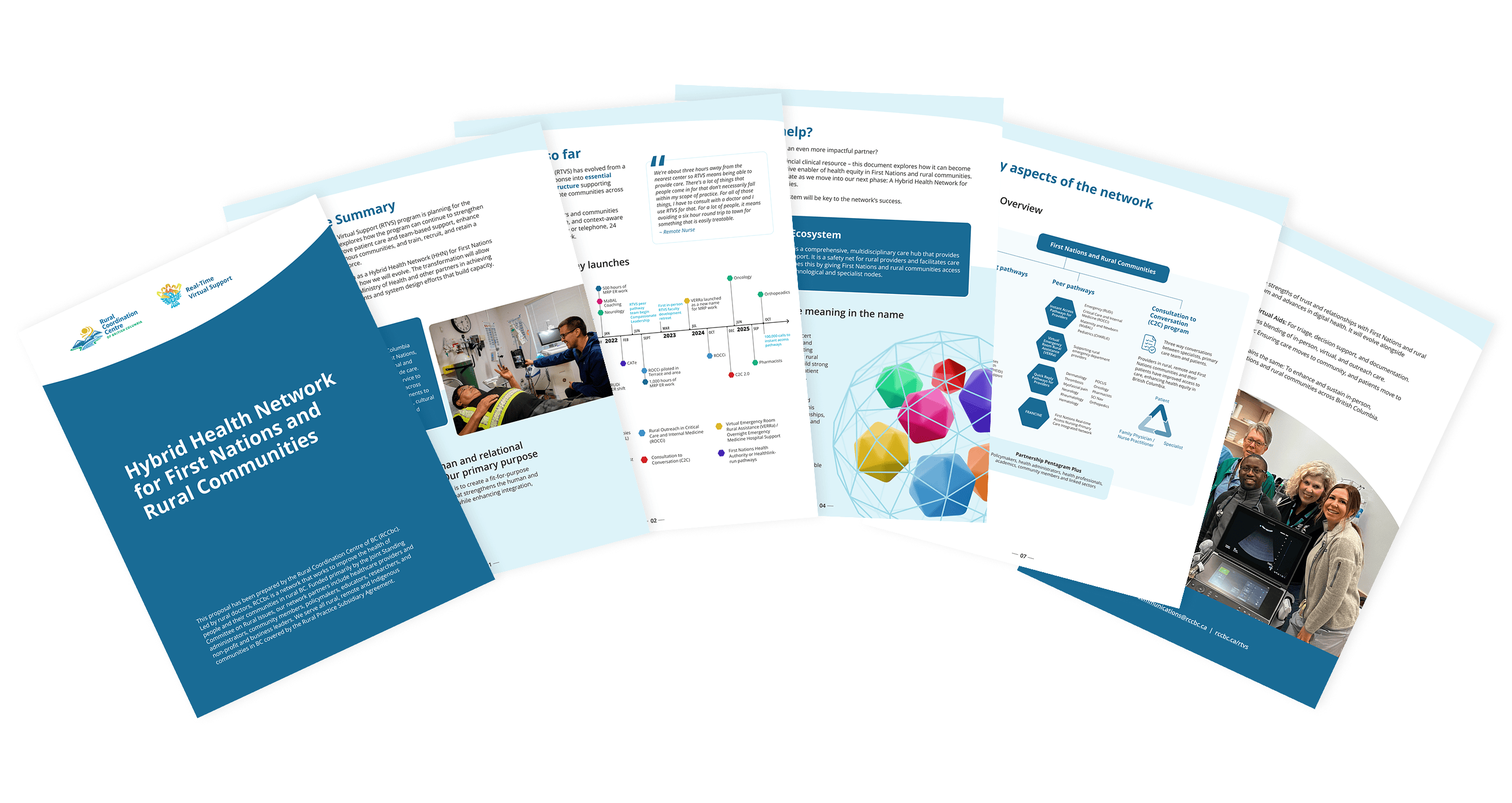
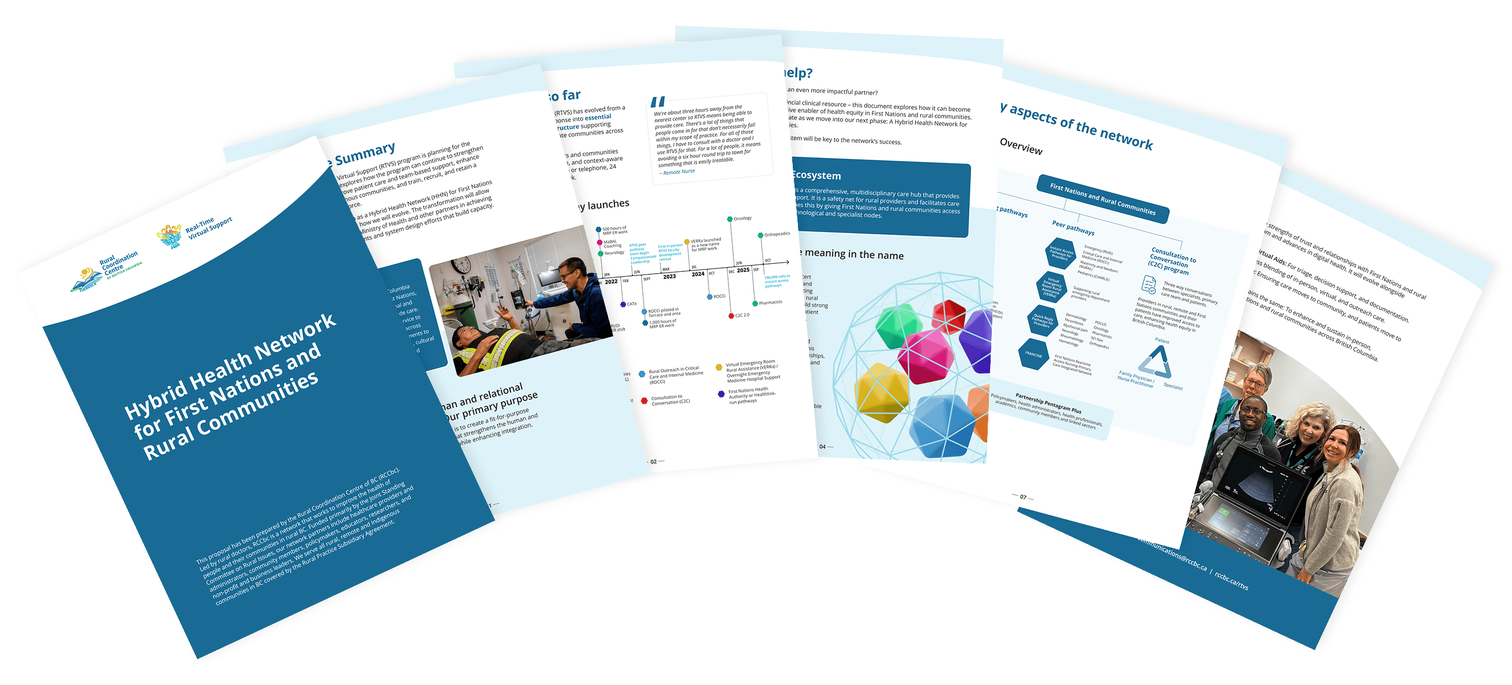
Swapped in RCCbc to select work for SPF

Changed region(s): [[0.031, 0.0312, 0.992, 0.9688]]

diff --git a/index.html b/index.html
@@ -145,7 +145,7 @@
         <div class="about-title-column">
           <h2 class="about-name about-title">About me</h2>
           <div class="about-contact">
-            <h3 class="pg-section-heading"><img src="/assets/figma-case-studies/section-rule.svg" alt="" aria-hidden="true">Connect</h3>
+            <h3 class="pg-section-heading"><img src="/assets/case-studies/section-rule.svg" alt="" aria-hidden="true">Connect</h3>
             <ul>
               <li><a class="js-email" data-u="steve" data-d="smackey.ca">steve&#64;smackey&#46;ca</a></li>
               <li><a href="https://www.linkedin.com/in/smackey" target="_blank" rel="noopener">LinkedIn</a></li>
@@ -155,32 +155,32 @@
         <div class="about-story-scroll" aria-label="About Steve">
           <section class="about-story-section">
             <div class="about-story-copy">
-              <h3 class="pg-section-heading"><img src="/assets/figma-case-studies/section-rule.svg" alt="" aria-hidden="true">A foundation in creative technology</h3>
+              <h3 class="pg-section-heading"><img src="/assets/case-studies/section-rule.svg" alt="" aria-hidden="true">A foundation in creative technology</h3>
               <p>I began my career as a hybrid designer and developer, specializing in interactive storytelling at CBC Radio 3, NFB Interactive, and several independent digital agencies. Working across creative and technical disciplines shaped my approach to problem-solving and laid the groundwork for the multidisciplinary leadership roles that followed.</p>
             </div>
           </section>
           <section class="about-story-section">
             <div class="about-story-copy">
-              <h3 class="pg-section-heading"><img src="/assets/figma-case-studies/section-rule.svg" alt="" aria-hidden="true">Building and leading a digital agency</h3>
+              <h3 class="pg-section-heading"><img src="/assets/case-studies/section-rule.svg" alt="" aria-hidden="true">Building and leading a digital agency</h3>
               <p>As co-owner and Director of Design &amp; Technology at <a href="https://denman.digital" target="_blank" rel="noopener noreferrer">Denman&nbsp;Digital</a>, I spent a decade helping build and lead an award-winning agency acquired in 2026. I led digital strategy, experience design, and technical direction, setting the creative standard for work delivered to more than 50 mission-focused organizations across nonprofit, education, healthcare, media, cultural, and public sectors.</p>
             </div>
           </section>
           <section class="about-story-section">
             <div class="about-story-copy">
-              <h3 class="pg-section-heading"><img src="/assets/figma-case-studies/section-rule.svg" alt="" aria-hidden="true">Simplifying complex challenges</h3>
+              <h3 class="pg-section-heading"><img src="/assets/case-studies/section-rule.svg" alt="" aria-hidden="true">Simplifying complex challenges</h3>
               <p>I work closely with clients and stakeholders to understand their goals, drawing on research and data to identify opportunities, inform design decisions, and measure success. From discovery and experience strategy to design systems and technical delivery, I connect big-picture thinking with practical execution.</p>
             </div>
           </section>
           <section class="about-story-section">
             <div class="about-story-copy">
-              <h3 class="pg-section-heading"><img src="/assets/figma-case-studies/section-rule.svg" alt="" aria-hidden="true">Creating the conditions for excellence</h3>
+              <h3 class="pg-section-heading"><img src="/assets/case-studies/section-rule.svg" alt="" aria-hidden="true">Creating the conditions for excellence</h3>
               <p>I believe great work happens when talented people share a clear sense of purpose and direction. I bring cross-functional teams together around a common vision, fostering a collaborative culture where people feel supported, take ownership, and contribute their strengths. Through mentorship, clear direction, and constructive feedback, I help teams grow and deliver their best work.</p>
             </div>
           </section>
           <section class="about-story-section">
             <div class="about-story-copy">
-              <h3 class="pg-section-heading"><img src="/assets/figma-case-studies/section-rule.svg" alt="" aria-hidden="true">Purpose beyond the work</h3>
-              <p>I'm most driven by helping mission-led organizations grow and thrive. I enjoy tackling complex challenges and finding ways to advance their goals, inspire their audiences, and better serve their communities. When those organizations succeed, everyone benefits.</p>
+              <h3 class="pg-section-heading"><img src="/assets/case-studies/section-rule.svg" alt="" aria-hidden="true">Purpose beyond the work</h3>
+              <p>I’m most driven by helping mission-led organizations grow and thrive. I enjoy tackling complex challenges and finding ways to advance their goals, inspire their audiences, and better serve their communities. When those organizations succeed, everyone benefits. Away from the screen, you'll find me on the trails, beaches and mountains of the beautiful Comox Valley on Vancouver Island.</p>
             </div>
           </section>
         </div>
@@ -189,7 +189,7 @@
         <h2 class="about-heading" id="about-clients-heading">Select Clients</h2>
 
           <section class="client-group" aria-labelledby="client-group-mission">
-            <h3 class="pg-section-heading client-group-title" id="client-group-mission"><img src="/assets/figma-case-studies/section-rule.svg" alt="" aria-hidden="true">Nonprofit, Mission-Driven &amp; Public Sector</h3>
+            <h3 class="pg-section-heading client-group-title" id="client-group-mission"><img src="/assets/case-studies/section-rule.svg" alt="" aria-hidden="true">Nonprofit, Mission-Driven &amp; Public Sector</h3>
             <div class="clients-grid clients-grid--five">
               <div class="client-logo"><img src="/assets/clients/bc.png" alt="Province of British Columbia"></div>
               <div class="client-logo"><img src="/assets/clients/bch.png" alt="BC Hydro"></div>
@@ -205,7 +205,7 @@
           </section>
 
           <section class="client-group" aria-labelledby="client-group-cultural">
-            <h3 class="pg-section-heading client-group-title" id="client-group-cultural"><img src="/assets/figma-case-studies/section-rule.svg" alt="" aria-hidden="true">Culture, Education &amp; Healthcare</h3>
+            <h3 class="pg-section-heading client-group-title" id="client-group-cultural"><img src="/assets/case-studies/section-rule.svg" alt="" aria-hidden="true">Culture, Education &amp; Healthcare</h3>
             <div class="clients-grid clients-grid--five">
               <div class="client-logo"><img src="/assets/clients/parks-canada.png" alt="Parks Canada"></div>
               <div class="client-logo"><img src="/assets/clients/dmc.png" alt="Digital Museums Canada"></div>
@@ -221,7 +221,7 @@
           </section>
 
           <section class="client-group" aria-labelledby="client-group-media">
-            <h3 class="pg-section-heading client-group-title" id="client-group-media"><img src="/assets/figma-case-studies/section-rule.svg" alt="" aria-hidden="true">Media</h3>
+            <h3 class="pg-section-heading client-group-title" id="client-group-media"><img src="/assets/case-studies/section-rule.svg" alt="" aria-hidden="true">Media</h3>
             <div class="clients-grid clients-grid--five">
               <div class="client-logo"><img src="/assets/clients/nfb.png" alt="National Film Board of Canada"></div>
               <div class="client-logo"><img src="/assets/clients/knowledge.png" alt="Knowledge Network"></div>
@@ -335,7 +335,7 @@
         <h1 class="intro-title"><span class="dark">Impact</span> <span class="light">by design.</span></h1>
       </div>
       <div class="case-hero-copy">
-        <h2 class="case-hero-eyebrow pg-section-heading"><img src="/assets/figma-case-studies/section-rule.svg" alt="" aria-hidden="true">25 years in digital. A decade building and leading an agency.</h2>
+        <h2 class="case-hero-eyebrow pg-section-heading"><img src="/assets/case-studies/section-rule.svg" alt="" aria-hidden="true">25 years in digital. A decade building and leading an agency.</h2>
         <p class="intro-desc intro-summary">I connect strategy, design, technology, and people to help mission-focused organizations solve complex problems and create experiences that matter.</p>
         <button id="introAboutBtn"><img src="favicon.svg" alt="About" aria-hidden="true"> — About &amp; Experience</button>
       </div>
@@ -344,7 +344,7 @@
     <div class="intro-content intro-content--archive">
       <div id="archiveChip" class="archive-chip"></div>
       <p class="intro-title"><span class="dark">Explore</span> <span class="light">the</span> <span class="dark">back</span> <span class="light">catalogue.</span></p>
-      <img class="intro-divider" src="/assets/figma-case-studies/section-rule.svg" alt="" aria-hidden="true">
+      <img class="intro-divider" src="/assets/case-studies/section-rule.svg" alt="" aria-hidden="true">
       <p class="intro-desc ta-left pl-10">Digital work is ephemeral. Technology changes, platforms disappear, campaigns end. This is a record of projects I've helped bring to life over the years, some of which no longer exist.</p>
     </div>
 

diff --git a/src/js/case-studies/rural-health-in-bc.js b/src/js/case-studies/rural-health-in-bc.js
@@ -32,6 +32,7 @@ export const blocks = [
     span: 12,
     center: true,
     variant: 'callout',
+    transparent: true,
     body: '<p>RCCbc approached us to address significant design and technical concerns they had with their website and identify areas for improvement. We joined with the organization’s communications team to understand their strategic objectives and after a full design, content, and technology audit, we created and implemented on a website refresh roadmap that aligned with their goals.</p>',
     
   },
@@ -49,6 +50,7 @@ export const blocks = [
     span: 12,
     center: true,
     variant: 'callout',
+    transparent: true,
     body: '<h2>Partnership Framework</h2><p>We helped RCCbc clarify messaging around their complex partnership framework called Partnership Pentagram Plus, that brings together six essential partner perspectives to create socially accountable health system transformation. It was adapted from an existing World Health Organization model to include First Nations and other relevant community partners. We then designed an interactive infographic to explain the partnership model and convey its key ideas step by step.</p>',
   },
 
@@ -59,14 +61,6 @@ export const blocks = [
   { type: 'image', span: 8, spanSm: 12, offset: 2, offsetSm: 0, src: 'assets/projects/rccbc/RTVS-HHN-lockup.png', alt: 'Real-Time Virtual Support / HHN Sub-brand lockup' },
 
 
-  {
-    type: 'text',
-    span: 6,
-    spanSm: 12,
-    variant: 'callout',
-    body: '<h2>RTVS Rebrand</h2><p>Real-Time Virtual Support (RTVS) peer pathways are for physicians, residents, nurse practitioners, nurses, midwives—and other health care providers—in rural, remote, and First Nations communities in BC. The refreshed identity anchors RTVS under the parent brand as it slowly evolves into the Health Hybrid Network (HHN). It keeps RCCbc’s hummingbird symbol, created by Coast Salish artist Douglas “Bear,” and extends RCCbc’s palette with nature-infused tones, giving each peer pathway its own colour.</p>',
-  },
-  
   {
     type: 'imageGallery',
     span: 6,
@@ -79,6 +73,25 @@ export const blocks = [
       { src: 'assets/projects/rccbc/p.3-2.png', alt: 'RTVS Visual Identity System Guidelines - Typography' }
     ],
   },
+
+  {
+    type: 'text',
+    span: 6,
+    spanSm: 12,
+    variant: 'callout',
+    transparent: true,
+    body: '<h2>RTVS Rebrand</h2><p>Real-Time Virtual Support (RTVS) peer pathways are for physicians, residents, nurse practitioners, nurses, midwives—and other health care providers—in rural, remote, and First Nations communities in BC. The refreshed identity anchors RTVS under the parent brand as it slowly evolves into the Health Hybrid Network (HHN). It keeps RCCbc’s hummingbird symbol, created by Coast Salish artist Douglas “Bear,” and extends RCCbc’s palette with nature-infused tones, giving each peer pathway its own colour.</p>',
+  },
+
+  {
+    type: 'text',
+    span: 6,
+    spanSm: 12,
+    variant: 'callout',
+    transparent: true,
+    body: '<h2>RTVS Peer Pathways</h2><p>The hexagon is widely seen as a symbol of balance, harmony, and structure. Its six equal sides convey stability and equilibrium, qualities that mirror how the RTVS peer pathways connect to one another. Building on this, we developed a flexible design system for the Instant Access, Quick Access, and Consultation to Conversation pathways, one that adapts to a range of formats across every touchpoint.</p>',
+  },
+  
   {
     type: 'imageGallery',
     span: 6,
@@ -94,18 +107,12 @@ export const blocks = [
       { src: 'assets/projects/rccbc/p.4-7.png', alt: 'RTVS Visual Identity System Guidelines - Peer Pathways pills' },
     ],
   },
-  {
-    type: 'text',
-    span: 6,
-    spanSm: 12,
-    variant: 'callout',
-    body: '<h2>RTVS Peer Pathways</h2><p>The hexagon is widely seen as a symbol of balance, harmony, and structure. Its six equal sides convey stability and equilibrium, qualities that mirror how the RTVS peer pathways connect to one another. Building on this, we developed a flexible design system for the Instant Access, Quick Access, and Consultation to Conversation pathways, one that adapts to a range of formats across every touchpoint.</p>',
-  },
 
   {
     type: 'text',
     span: 12,
     variant: 'callout',
+    transparent: true,
     body: '<p>A proposal for BC’s Ministry of Health helped secure new funding for 24/7 coverage for the CHARLiE and MaBAL pediatric and maternity pathways as of July 1, 2026, stabilizing round-the-clock support for rural and remote providers.</p>',
   },
   { type: 'image', span: 12, src: 'assets/projects/rccbc/RTVS-comms-package.png', alt: 'RCCbc Communications Package' },

diff --git a/src/js/case-studies/a-world-of-canadian-film.js b/src/js/case-studies/a-world-of-canadian-film.js
@@ -47,7 +47,7 @@ export const blocks = [
     spanSm: 12,
     variant: 'callout',
     heading: 'Solutions',
-    body: '<h2>User centred design.</h2><ul><li>Introduced an audience-based information architecture and mega menu navigation system, making it quick to reach any page within each section</li><li>Led overall design direction and transformation of inherited brand elements into a Figma design system of components, styles, and variables that streamlined developer handoff and kept the brand consistent across products</li><li>Rebuilt a custom outdated plugin that syncs data from Salesforce to their websites establishing a single source of truth for all film and event data</li><li>Led the design and development of a block-based content management system, giving Reel Canada’s team the flexibility to build and update pages in English and French without developer support</li></ul>',
+    body: '<h2>User centred design.</h2><ul><li>Introduced an audience-based information architecture and mega menu navigation system, making it quick to reach any page within each section.</li><li>Led overall design direction and transformation of inherited brand elements into a Figma design system of components, styles, and variables that streamlined developer handoff and kept the brand consistent across products.</li><li>Rebuilt a custom outdated plugin that syncs data from Salesforce to their websites establishing a single source of truth for all film and event data.</li><li>Led the design and development of a block-based content management system, giving Reel Canada’s team the flexibility to build and update pages in English and French without developer support.</li></ul>',
   },
 
   // Outcome callout — full width
@@ -57,7 +57,7 @@ export const blocks = [
     spanSm: 12,
     variant: 'callout',
     heading: 'Outcomes',
-    body: '<h2>A lasting partnership.</h2><p>Following a well-received 2023 launch, we became Reel Canada’s agency of record, supporting the continued evolution of their flagship website and the National Canadian Film Day event site.</p><ul><li>145% website traffic increase and 500,000+ students reached in the first year</li><li>40% increase in educator sign-ups</li><li>National media partnership with CBC</li></ul><br><p>The most notable success was <em>Reel Opportunities</em>, a digital workforce initiative that attracts young adults to careers in Canada’s film industry and accounted for two-thirds of total website traffic in the first year. It includes an interactive career-pathway tool, a career-planning quiz, and a searchable, filterable directory of film-related job profiles.</p>',
+    body: '<h2>A lasting partnership.</h2><p>Following a well-received 2023 launch, we became Reel Canada’s agency of record, supporting the continued evolution of their flagship website and the National Canadian Film Day event site.</p><ul><li>145% website traffic increase and 500,000+ students reached in the first year.</li><li>40% increase in educator sign-ups.</li><li>National media partnership with CBC.</li></ul><br><p>The most notable success was <em>Reel Opportunities</em>, a digital workforce initiative that attracts young adults to careers in Canada’s film industry and accounted for two-thirds of total website traffic in the first year. It includes an interactive career-pathway tool, a career-planning quiz, and a searchable, filterable directory of film-related job profiles.</p>',
   },
 
   { type: 'spacer', span: 12, height: 40 },

diff --git a/src/js/select-work.js b/src/js/select-work.js
@@ -3,24 +3,24 @@
 export const FEATURED_CASE_STUDIES = [
   {
     slug: 'adornment-identity',
-    image: '/assets/figma-case-studies/adornment.png',
+    image: '/assets/case-studies/adornment.png',
     description: "I led the experience design, art direction, and technical direction of an award-winning virtual museum exploring 250 years of women’s fashion. Working with historians, curators, and a multidisciplinary team, we created immersive exhibits, including a 3D digital replica of a 1900 Worth dress that reveals its intricate construction from the inside out.",
   },
   {
     slug: 'a-world-of-canadian-film',
-    image: '/assets/figma-case-studies/reel-canada.png',
+    image: '/assets/case-studies/reel-canada.png',
     description: "I led the digital strategy, experience design, and technical direction of Reel Canada's website transformation, aligning organizational goals with audience needs. We simplified complex content and systems to create a flexible, bilingual platform that contributed to a 145% increase in website traffic and a 40% increase in educator sign-ups in its first year.",
   },
   {
     slug: 'my-refugee-claim',
-    image: '/assets/figma-case-studies/refugee-claim.png',
+    image: '/assets/case-studies/refugee-claim.png',
     description: "Navigating Canada's refugee protection process is challenging, especially when essential information is scattered and difficult to understand. I directed the experience design and technical delivery of an award-winning multilingual resource, working with legal experts, settlement workers, and people with lived experience to make critical information more accessible.",
   },
 ];
 
 export const ADDITIONAL_PROJECTS = [
-  { slug: 'your-public-broadcaster', image: '/assets/figma-case-studies/public-broadcaster.png' },
-  { slug: 'net-positive', image: '/assets/figma-case-studies/net-positive.png' },
-  { slug: 'builders-code-training', image: '/assets/figma-case-studies/builders-code.png' },
-  { slug: 'healing-better', image: '/assets/figma-case-studies/healing-better.png' },
+  { slug: 'your-public-broadcaster', image: '/assets/case-studies/public-broadcaster.png' },
+  { slug: 'rural-health-in-bc', image: '/assets/case-studies/rccbc.png' },
+  { slug: 'builders-code-training', image: '/assets/case-studies/builders-code.png' },
+  { slug: 'net-positive', image: '/assets/case-studies/net-positive.png' },
 ];

diff --git a/src/js/case-studies/net-positive.js b/src/js/case-studies/net-positive.js
@@ -56,7 +56,7 @@ export const blocks = [
     spanSm: 12,
     variant: 'callout',
     heading: 'Outcomes',
-    body: '<ul><li>A brand and website that conveyed Foran’s ambitions by balancing high-impact, emotional visuals with technical reports, metallurgical results and feasibility studies</li><li>In September 2025, the federal government referred Foran’s McIlvenna Bay project to the Major Projects Office as one of five potential projects of national interest</li><li>In April 2026, Eldorado Gold acquired Foran in a C$3.8-billion deal</li></ul>',
+    body: '<ul><li>A brand and website that conveyed Foran’s ambitions by balancing high-impact, emotional visuals with technical reports, metallurgical results and feasibility studies.</li><li>In September 2025, the federal government referred Foran’s McIlvenna Bay project to the Major Projects Office as one of five potential projects of national interest.</li><li>In April 2026, Eldorado Gold acquired Foran in a C$3.8-billion deal.</li></ul>',
   },
   { type: 'spacer', span: 12, height: 40 },
   { type: 'image', span: 12, src: 'assets/projects/foran/foran-responsive.png', alt: 'Responsive project screens.' },
@@ -68,6 +68,7 @@ export const blocks = [
     span: 6,
     spanSm: 12,
     center: true,
+    transparent: true,
     variant: 'callout',
     body: '<h2>Colour Palette</h2><p>The brand palette is driven by an energetic citrus orange, conveying enthusiasm, creativity, success, change, determination, and balance. It’s paired with neutral black, white, and greys. A secondary palette of blues and ivory provide accents.</p>',
   },
@@ -83,6 +84,7 @@ export const blocks = [
     span: 6,
     spanSm: 12,
     center: true,
+    transparent: true,
     variant: 'callout',
     body: '<h2>Typography</h2><p>The same geometric sans typeface used in the wordmark is used throughout their written assets. Four highly readable weights in title and sentence case drive type systems developed to create effective information hierarchies and dynamic layouts on both screen and in print.</p>',
   },

diff --git a/src/js/case-studies/my-refugee-claim.js b/src/js/case-studies/my-refugee-claim.js
@@ -47,7 +47,7 @@ export const blocks = [
     spanSm: 12,
     variant: 'callout',
     heading: 'Outcomes',
-    body: '<ul><li>A plain-language, eight section guide for claimants in thirteen languages, used nationwide</li><li>Wiki style glossary popovers for quick reference to unfamiliar terms</li><li>HubSpot integration with multi-stepped <em>Ready Tour</em> form to automate communications for virtual hearing preparation workshops</li><li>AI text to speech integration, available in eleven languages</li><li><a href="https://www.anthemawards.com/winners/list/entry/#!humanitarian-action-services/education-or-literacy-platform/my-refugee-claim/0/kinbrace/453645" target="_blank">Anthem Award winner (Silver)</a> – Education Platform</li></ul>',
+    body: '<ul><li>A plain-language, eight section guide for claimants in thirteen languages, used nationwide.</li><li>Wiki style glossary popovers for quick reference to unfamiliar terms.</li><li>HubSpot integration with multi-stepped <em>Ready Tour</em> form to automate communications for virtual hearing preparation workshops.</li><li>AI text to speech integration, available in eleven languages.</li><li><a href="https://www.anthemawards.com/winners/list/entry/#!humanitarian-action-services/education-or-literacy-platform/my-refugee-claim/0/kinbrace/453645" target="_blank">Anthem Award winner (Silver)</a> – Education Platform.</li></ul>',
   },
 
   { type: 'spacer', span: 12, height: 40 },

diff --git a/src/js/case-studies/builders-code-training.js b/src/js/case-studies/builders-code-training.js
@@ -62,6 +62,7 @@ export const blocks = [
     type: 'text',
     span: 12,
     variant: 'callout',
+    transparent: true,
     body: 'BCCA’s multiple audiences required different approaches to learning. After defining how particular learners would approach the training we created unique user pathways, determined key communication touch points for each, and customized the content at each stage to meet their individual requirements.',
   },
   { type: 'image', span: 6, spanSm: 12, src: 'assets/projects/builderscodetraining/future-of-construction-journey.png', alt: 'User journey map and user flow.' },
@@ -73,6 +74,7 @@ export const blocks = [
     span: 6,
     spanSm: 12,
     variant: 'callout',
+    transparent: true,
     center: true,
     body: 'BCCA’s trainers are at the centre of the experience. We worked with them to script, art direct, and rehearse each video segment, capturing the intimacy of in-person learning while delivering key takeaways in a clear, supportive way.',
   },
@@ -83,6 +85,7 @@ export const blocks = [
     span: 12,
     variant: 'callout',
     center: true,
+    transparent: true,
     body: 'In the third and fourth modules, we changed things up by adding scenario-based storytelling. Simple illustrations and voice-over show fictional characters handling situations poorly, then well. The contrast gave learners a visual break and sparked their imagination.',
   },
 

diff --git a/src/js/projects.js b/src/js/projects.js
@@ -90,11 +90,22 @@ export const PROJECTS = [
     textColour: 'light',
   },
   {
+    file:      'index-rccbc.jpg',
+    client:    'Rural Coordination Centre of British Columbia',
+    title:     'Rural Health in BC',
+    year:      2026,
+    casestudy: true,
+    category:  ['Website', 'Brand Design'],
+    industry:  ['Health & Wellness', 'Nonprofit & Charitable Organizations'],
+    accentColourPrimary:   '#007EA5',
+    textColour: 'light',
+  },
+  {
     file:      'index-spf.jpg',
     client:    'St. Paul’s Foundation',
     title:     'Healing Better',
     year:      2026,
-    casestudy: true,
+    casestudy: false,
     category:  ['Website', 'Fundraising'],
     industry:  ['Health & Wellness', 'Nonprofit & Charitable Organizations'],
     accentColourPrimary:   '#473f39',
@@ -462,17 +473,6 @@ export const PROJECTS = [
     category:  ['Website'],
     industry:  ['Technology'],
     accentColourPrimary:   '#640f71',
-    textColour: 'light',
-  },
-  {
-    file:      'index-rccbc.jpg',
-    client:    'Rural Coordination Centre of British Columbia',
-    title:     'Rural Health in BC',
-    year:      2026,
-    casestudy: false,
-    category:  ['Website', 'Brand Design'],
-    industry:  ['Health & Wellness', 'Nonprofit & Charitable Organizations'],
-    accentColourPrimary:   '#007EA5',
     textColour: 'light',
   },
   

diff --git a/src/js/grid.js b/src/js/grid.js
@@ -2470,11 +2470,11 @@ function renderProjectList() {
 
     projectGridEl.innerHTML = `<div class="pg-case-studies">
       <section class="pg-featured-section" aria-labelledby="pg-featured-title">
-        <h2 id="pg-featured-title" class="pg-section-heading">Case Studies<img src="/assets/figma-case-studies/section-rule.svg" alt="" aria-hidden="true"></h2>
+        <h2 id="pg-featured-title" class="pg-section-heading">Case Studies<img src="/assets/case-studies/section-rule.svg" alt="" aria-hidden="true"></h2>
         <div class="pg-featured-grid">${featured.map(renderFeature).join('')}</div>
       </section>
       <section class="pg-secondary-section" aria-labelledby="pg-secondary-title">
-        <h2 id="pg-secondary-title" class="pg-section-heading"><img src="/assets/figma-case-studies/section-rule.svg" alt="" aria-hidden="true">Additional Projects</h2>
+        <h2 id="pg-secondary-title" class="pg-section-heading"><img src="/assets/case-studies/section-rule.svg" alt="" aria-hidden="true">Additional Projects</h2>
         <div class="pg-secondary-grid">${secondary.map(renderSecondary).join('')}</div>
       </section>
     </div>`;
